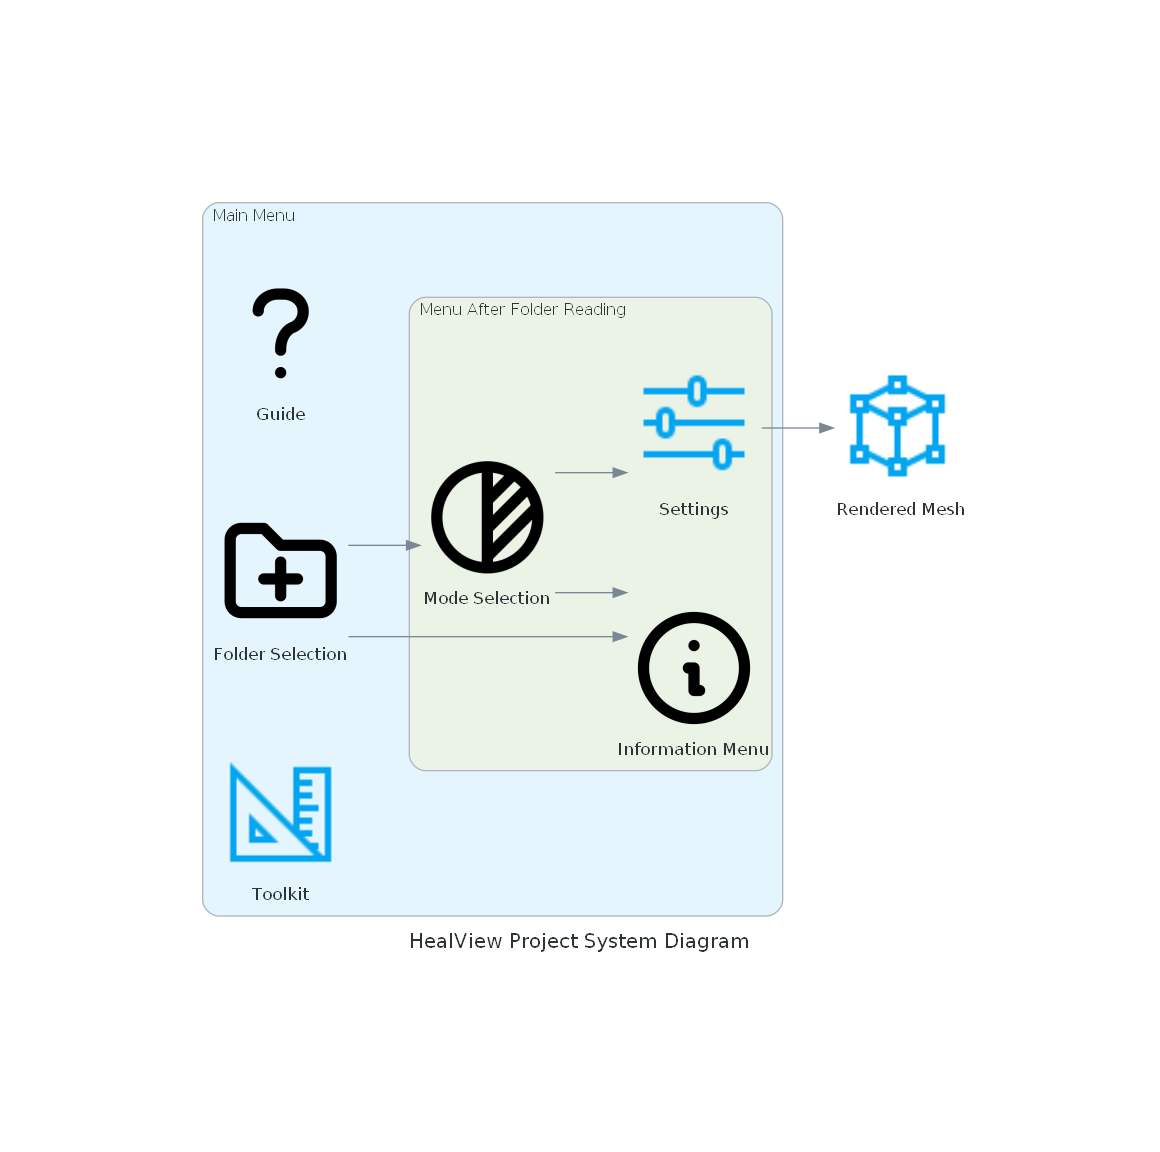
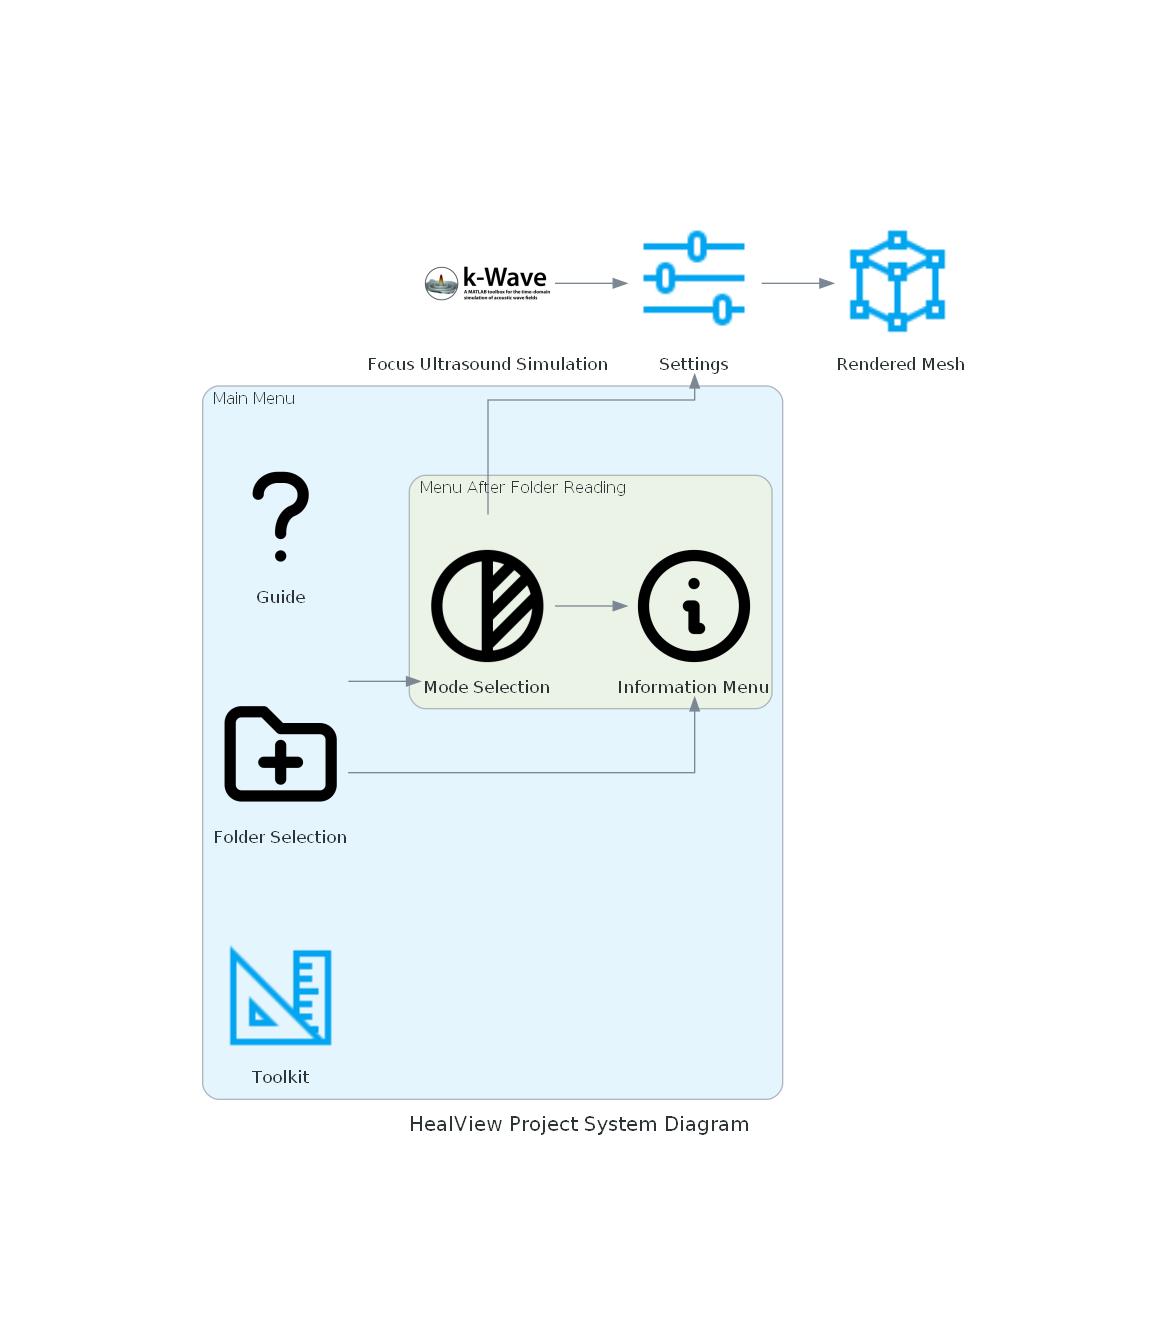
added k-wave input

diff --git a/ProjectDiagram.py b/ProjectDiagram.py
@@ -22,6 +22,14 @@ with Diagram("HealView Project System Diagram", show=True):
     # From: MathWorks
     #Matlab = Custom("MATLAB Code", "./my_resources/Matlab_Logo.png")
 
+    #From: K-wave
+    KWave = Custom("Focus Ultrasound Simulation", "./my_resources/k-wave_banner.png")
+    
+    
+    Options = Custom("Settings", "./my_resources/settings_icon.png")
+
+    KWave >> Options
+    
     #!!! Order that these are initialized is the order that they show up on the render
     with Cluster("Main Menu"):
         # From: https://tabler-icons.io/
@@ -37,12 +45,10 @@ with Diagram("HealView Project System Diagram", show=True):
             Info = Custom("Information Menu", "./my_resources/info-circle.png")
             Mode = Custom("Mode Selection", "./my_resources/circle-half-2.png")
 
-            # From: MRTK
-            Options = Custom("Settings", "./my_resources/settings_icon.png")
 
             
-            
-
+    
+    
 
     
     Folder >> Mode >> Options >> Mesh
@@ -50,6 +56,7 @@ with Diagram("HealView Project System Diagram", show=True):
     Folder >> Info
     Mode >> Info
 
+    
 
 
 

diff --git a/tempCodeRunnerFile.py b/tempCodeRunnerFile.py
@@ -1,0 +1,1 @@
+Options
